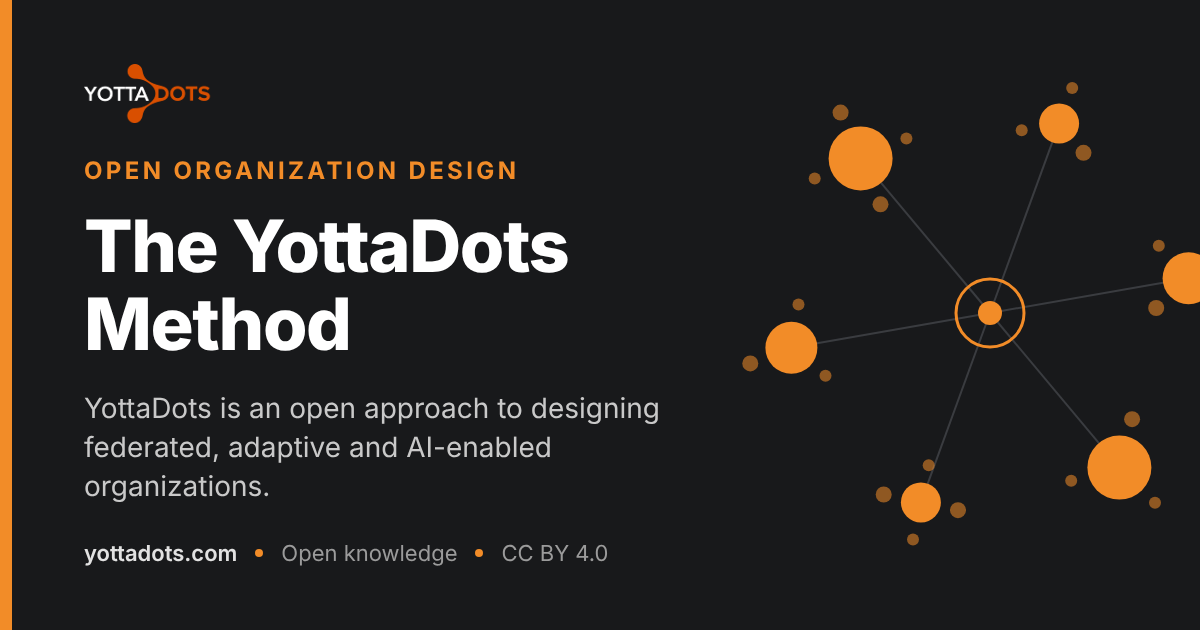
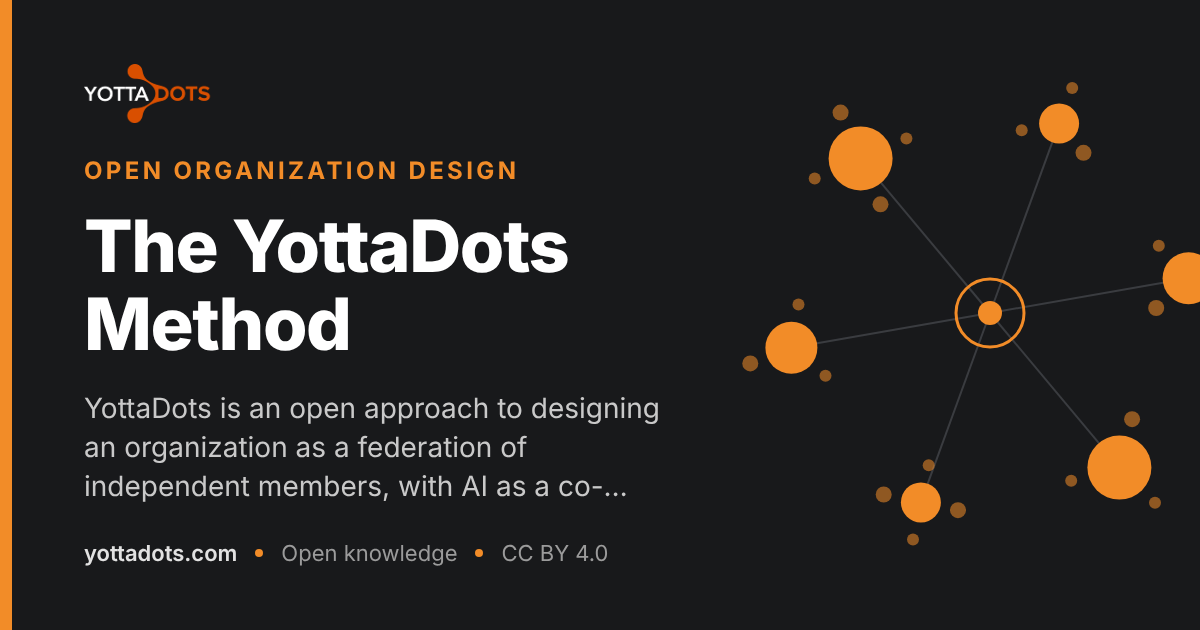
Method: federation of independent members (D1) with visual summary
- New core idea (A1): keep / delegate and take back / AI takes on
- 'What is a federation in YottaDots?' section (D1, D1.1)
- Principles Federate and Align rewritten from the members' side (A2)
- Homepage feature cards updated to match
- Visual summary static/img/diagrams/method-federation-summary.svg
- Method share card regenerated

Claude-Session: https://claude.ai/code/session_01WDc2s8LhzF4VL9GJfsqXcP

Changed region(s): [[0.0617, 0.6937, 0.4933, 0.8143]]

diff --git a/src/components/FeatureCards/index.js b/src/components/FeatureCards/index.js
@@ -5,12 +5,12 @@ const features = [
   {
     icon: '◉',
     title: 'Federate',
-    text: 'Place authority where the knowledge and capability live.',
+    text: 'Independent members keep their authority and delegate only what must be shared.',
   },
   {
     icon: '◎',
     title: 'Align',
-    text: 'Create shared purpose, principles and lightweight guardrails.',
+    text: 'Members agree on a shared purpose, principles and lightweight guardrails.',
   },
   {
     icon: '✦',

diff --git a/docs/method/index.md b/docs/method/index.md
@@ -7,13 +7,34 @@ image: /img/social/method.png
 
 # The YottaDots Method
 
-YottaDots is an open approach to designing federated, adaptive and AI-enabled organizations.
+YottaDots is an open approach to designing an organization as a federation of independent members, with AI as a co-worker.
+
+![Visual summary. Five independent members, each with its own teams, surround a shared core. Arrows run from the members to the core: members delegate powers to the core, and can take them back. Three lines: 1. Keep: members keep what they can do best themselves. 2. Delegate: together they delegate what must be shared, and can take it back. 3. Automate: AI takes on what needs no human judgment. Everything that is not delegated stays with the members.](/img/diagrams/method-federation-summary.svg)
 
 It is built around a simple idea:
 
-> Centralize what must be shared.  
-> Federate what benefits from local knowledge.  
-> Automate what does not require human judgment.
+> Members keep what they can do best themselves.  
+> Together they delegate what must be shared, and can take it back.  
+> AI takes on what needs no human judgment.
+
+## What is a federation in YottaDots?
+
+A federation is a union of independent members. The members hand a limited
+set of powers to a shared core. The core holds only what the members delegate.
+Everything else stays with the members.
+
+Members can be:
+
+- **separate organizations**, such as companies in a group, cooperatives or
+  public bodies that work together; or
+- **units inside one organization** that have real, written autonomy. This is
+  the weaker form: it only counts as a federation if that autonomy is real.
+  The minimum conditions are still being defined.
+
+A federation is not decentralization inside a hierarchy, where management
+decides what to hand down. In a federation, authority comes from the members.
+
+## What YottaDots provides
 
 YottaDots is not intended to prescribe one organizational structure.
 

diff --git a/docs/method/principles.md b/docs/method/principles.md
@@ -9,11 +9,12 @@ YottaDots v0.1 starts with four principles.
 
 ## Federate
 
-Place authority close to knowledge and value creation.
+Independent members keep their authority. They delegate only what they choose
+to a shared core, and they can take it back.
 
 ## Align
 
-Create shared purpose, principles and guardrails.
+Members agree together on a shared purpose, principles and guardrails.
 
 ## Augment
 
